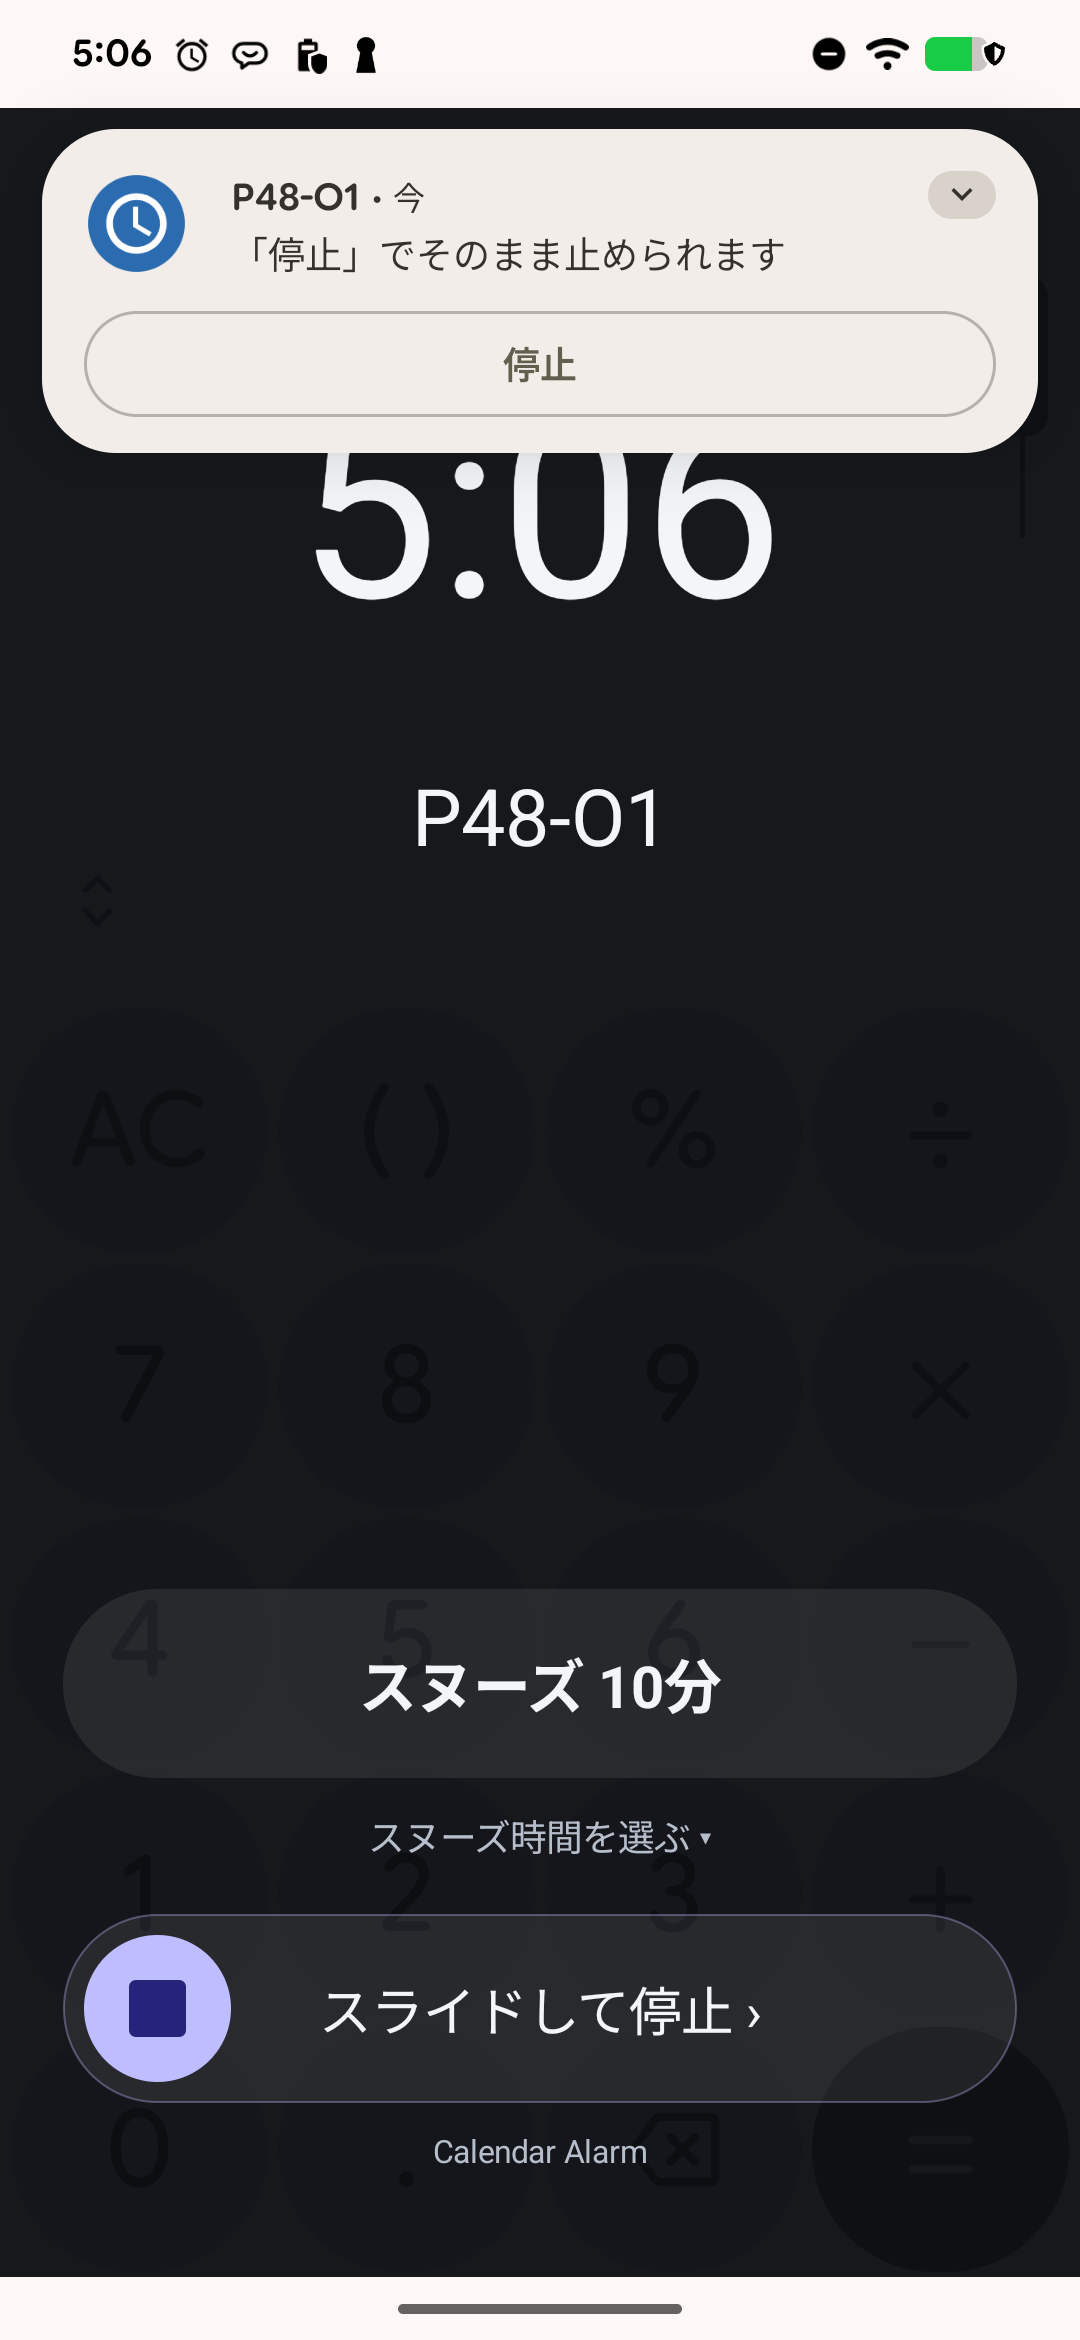
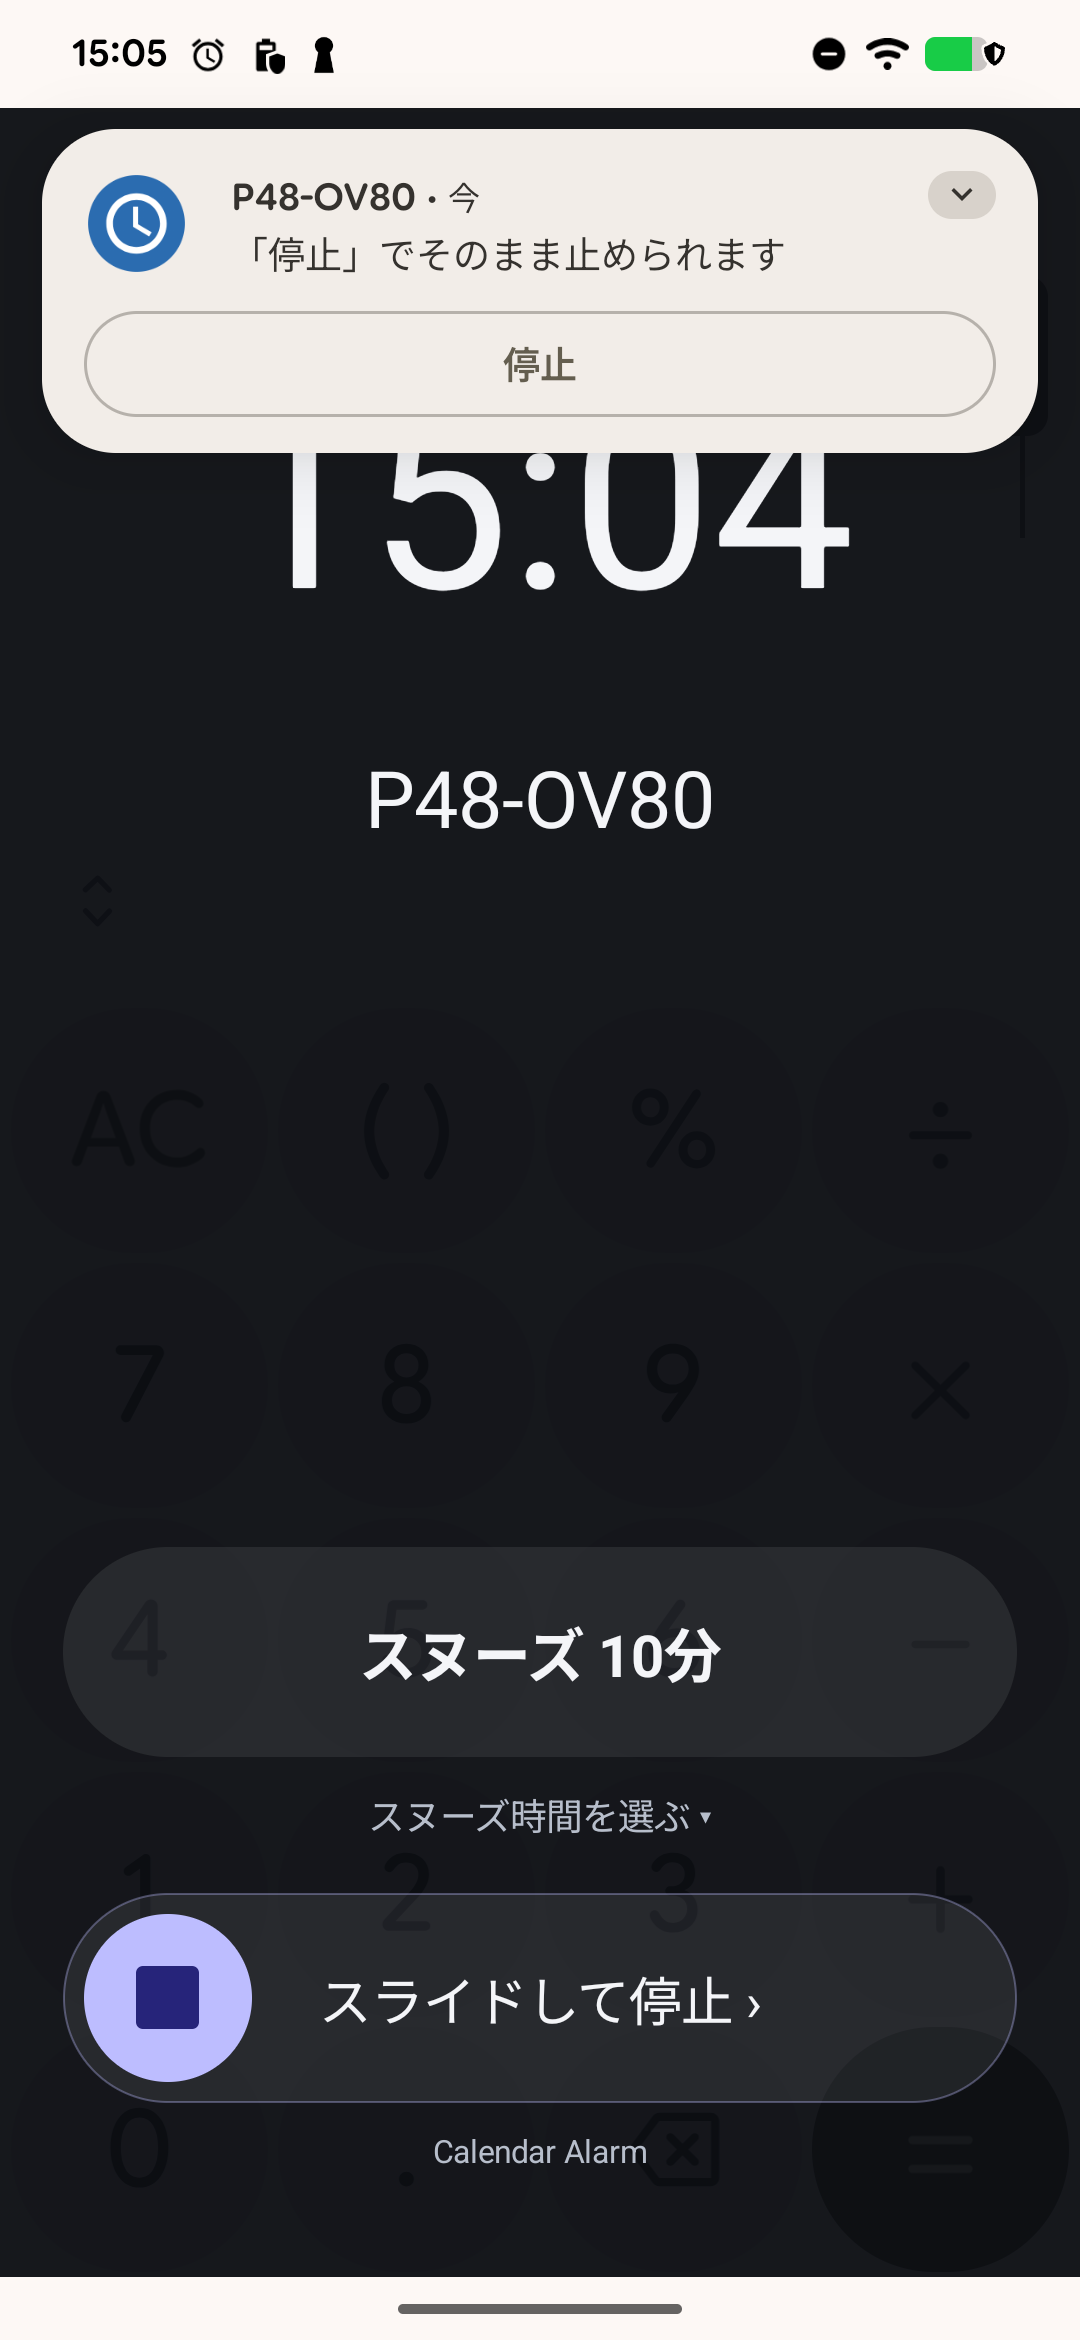
chore(evidence): PR 48 overlay geometry on Pixel 7 Pro at 535882e

diff --git a/48-pixel-r5/overlay80.py b/48-pixel-r5/overlay80.py
@@ -1,0 +1,232 @@
+"""PR #48 overlay geometry on the real Pixel, silent. Verifies the overlay (FSI denied, calculator in front)
+now has an 80dp slide track, 64dp thumb and 80dp snooze (same as RingingActivity and iOS), and that the
+slide still behaves (half = returns, off-thumb swipe = nothing, full = stops).
+Every volume 0, DND total silence, vibration 0 before anything rings; restored at the end.
+Test build applicationId com.calendaralarm.pr48 (installed app and its data untouched)."""
+import os
+import re
+import subprocess
+import sys
+import time
+import xml.etree.ElementTree as ET
+from datetime import datetime
+
+from PIL import Image
+
+SER = "2A091FDH300C0J"
+OUT, APK = sys.argv[1], sys.argv[2]
+P = "com.calendaralarm.pr48"
+HARN = f"{P}/com.calendaralarm.emu.EmuHarnessReceiver"
+CALC = "com.google.android.calculator"
+VIB_KEYS = ("alarm_vibration_intensity", "ring_vibration_intensity", "notification_vibration_intensity",
+            "media_vibration_intensity", "haptic_feedback_intensity")
+os.makedirs(OUT, exist_ok=True)
+log = open(os.path.join(OUT, "run.log"), "w")
+results = []
+
+
+def say(*a):
+    s = f"[{datetime.now().strftime('%H:%M:%S.%f')[:-3]}] " + " ".join(str(x) for x in a)
+    print(s, flush=True)
+    log.write(s + "\n")
+    log.flush()
+
+
+def adb(*a, raw=False):
+    r = subprocess.run(["adb", "-s", SER, *a], capture_output=True)
+    return r.stdout if raw else r.stdout.decode("utf-8", "replace")
+
+
+def sh(*a):
+    return adb("shell", *a)
+
+
+def vol(st):
+    m = re.search(r"volume is (\d+)", sh("cmd", "media_session", "volume", "--stream", str(st), "--get"))
+    return int(m.group(1)) if m else None
+
+
+def ringing():
+    return "engine.AlarmService" in sh("dumpsys", "activity", "services", P)
+
+
+def overlay_windows():
+    out = sh("dumpsys", "window", "windows")
+    hits = []
+    for block in re.split(r"\n  Window #\d+ ", out):
+        if P in block and re.search(r"ty=APPLICATION_OVERLAY|type=APPLICATION_OVERLAY|TYPE_APPLICATION_OVERLAY", block):
+            hits.append(block.splitlines()[0].strip())
+    return hits
+
+
+def app_activities():
+    return sorted(set(re.findall(re.escape(P) + r"/[\w.]+", sh("dumpsys", "activity", "activities"))))
+
+
+def nodes():
+    sh("uiautomator", "dump", "/sdcard/u48.xml")
+    xml = adb("exec-out", "cat", "/sdcard/u48.xml")
+    out = []
+    for n in ET.fromstring(xml).iter("node"):
+        m = re.match(r"\[(\d+),(\d+)\]\[(\d+),(\d+)\]", n.get("bounds", ""))
+        if m:
+            out.append({"text": n.get("text", ""), "desc": n.get("content-desc", ""),
+                        "bounds": tuple(int(x) for x in m.groups())})
+    return out
+
+
+def find(pred):
+    return next((n for n in nodes() if pred(n)), None)
+
+
+def shot(path):
+    open(path, "wb").write(adb("exec-out", "screencap", "-p", raw=True))
+
+
+def record(row, ok, note):
+    results.append((row, "PASS" if ok else "FAIL", note))
+    say(f"ROW {row}: {'PASS' if ok else 'FAIL'} {note}")
+
+
+def slider():
+    return find(lambda n: n["desc"] == "スライドして停止")
+
+
+def swipe(x0, y, x1, ms=900):
+    sh("input", "swipe", str(x0), str(y), str(x1), str(y), str(ms))
+    say(f"swipe {x0},{y} -> {x1},{y}")
+
+
+def wait_quiet(timeout=10):
+    t0 = time.time()
+    while time.time() - t0 < timeout:
+        if not ringing():
+            return True
+        time.sleep(1)
+    return False
+
+
+density = int(re.search(r"(\d+)", sh("wm", "density")).group(1))
+DP = density / 160.0
+saved = {st: vol(st) for st in (2, 3, 4, 5)}
+saved_zen = sh("settings", "get", "global", "zen_mode").strip()
+saved_vib = {k: sh("settings", "get", "system", k).strip() for k in VIB_KEYS}
+night = sh("cmd", "uimode", "night").strip()
+say("density", density, "dp=", DP, "| saved volumes", saved, "| zen", saved_zen, "| vib", saved_vib, "|", night)
+try:
+    for st in (2, 3, 4, 5):
+        sh("cmd", "media_session", "volume", "--stream", str(st), "--set", "0")
+    sh("cmd", "notification", "set_dnd", "none")
+    for k in VIB_KEYS:
+        sh("settings", "put", "system", k, "0")
+    now_vols = {st: vol(st) for st in (2, 3, 4, 5)}
+    zen = sh("settings", "get", "global", "zen_mode").strip()
+    vib_now = {k: sh("settings", "get", "system", k).strip() for k in VIB_KEYS}
+    say("volumes now", now_vols, "| zen_mode", zen, "| vibration now", vib_now)
+    if zen != "2" or any(v not in (0, 1) for v in now_vols.values()) or any(v != "0" for v in vib_now.values()):
+        raise SystemExit("not silent; abort before anything rings")
+    sh("input", "keyevent", "KEYCODE_WAKEUP")
+    sh("svc", "power", "stayon", "true")
+    sh("wm", "dismiss-keyguard")
+    sh("cmd", "statusbar", "collapse")
+
+    sh("pm", "uninstall", P)
+    say(adb("install", "-r", "-d", APK).strip().splitlines()[-1])
+    sh("pm", "grant", P, "android.permission.POST_NOTIFICATIONS")
+    sh("appops", "set", P, "SCHEDULE_EXACT_ALARM", "allow")
+    sh("appops", "set", P, "USE_FULL_SCREEN_INTENT", "deny")
+    sh("appops", "set", P, "SYSTEM_ALERT_WINDOW", "allow")
+    say("appops:", sh("appops", "get", P, "USE_FULL_SCREEN_INTENT").strip(), "|",
+        sh("appops", "get", P, "SYSTEM_ALERT_WINDOW").strip())
+    sh("am", "force-stop", P)
+    sh("am", "start", "-W", "-n", f"{CALC}/com.android.calculator2.Calculator")
+    time.sleep(2)
+
+    out = sh("am", "broadcast", "--include-stopped-packages", "-n", HARN, "-a", "com.calendaralarm.emu.SCHEDULE",
+             "--ei", "seconds", "8", "--es", "label", "P48-OV80")
+    say("schedule:", out.strip().splitlines()[-1] if out.strip() else out)
+    t0 = time.time()
+    while time.time() - t0 < 60 and not ringing():
+        time.sleep(1)
+    time.sleep(3)
+    wins = overlay_windows()
+    acts = app_activities()
+    shot(f"{OUT}/o1-overlay.png")
+    record("overlay-path", ringing() and bool(wins) and not any("RingingActivity" in a for a in acts),
+           f"ringing={ringing()}, APPLICATION_OVERLAY windows={len(wins)}, app activities={acts}")
+
+    s = slider()
+    snz = find(lambda n: n["text"].startswith("スヌーズ ") and n["text"].endswith("分") and "選ぶ" not in n["text"])
+    say("slider", s, "| snooze", snz)
+    if not s or not snz:
+        record("geometry", False, "slider or snooze node not found")
+    else:
+        l, t, r, b = s["bounds"]
+        h_dp = (b - t) / DP
+        sh_dp = (snz["bounds"][3] - snz["bounds"][1]) / DP
+        record("track-80dp", abs(h_dp - 80) <= 1.0, f"slider height = {b - t}px = {h_dp:.1f}dp (want 80)")
+        record("snooze-80dp", abs(sh_dp - 80) <= 1.0, f"snooze height = {snz['bounds'][3] - snz['bounds'][1]}px = {sh_dp:.1f}dp (want 80)")
+        img = Image.open(f"{OUT}/o1-overlay.png").convert("RGB")
+        yc = (t + b) // 2
+        acc = [x for x in range(l, r) if all(abs(c - d) < 12 for c, d in zip(img.getpixel((x, yc - int((b - t) * 0.3))), (0xBD, 0xBD, 0xFF)))
+               or all(abs(c - d) < 12 for c, d in zip(img.getpixel((x, yc)), (0xBD, 0xBD, 0xFF)))]
+        if acc:
+            # 丸の左端〜右端 (■ の部分は地の色になるが、最左と最右の画素で直径を測る)
+            w_px = acc[-1] - acc[0] + 1
+            pad_px = acc[0] - l
+            record("thumb-64dp", abs(w_px / DP - 64) <= 2.0 and abs(pad_px / DP - 8) <= 2.0,
+                   f"thumb width = {w_px}px = {w_px / DP:.1f}dp (want 64), left pad = {pad_px}px = {pad_px / DP:.1f}dp (want 8), grab limit=(64+8*3)dp={88 * DP:.0f}px")
+        else:
+            record("thumb-64dp", False, "no accent pixels found in the track")
+
+        # 掴める幅: 88dp の内側ぎりぎり (84dp) から引き始めても止まる / 外側 (96dp) からは止まらない
+        # 先に外側から払う (止まったら以降が続かないため)
+        y = (t + b) // 2
+        x_out = l + int(96 * DP)
+        swipe(x_out, y, r - int(8 * DP))
+        time.sleep(3)
+        record("outside-grab-96dp", ringing() and bool(overlay_windows()),
+               f"swipe from {96}dp (outside 88dp) to the right end: still ringing={ringing()}")
+        # 丸の中央から半分
+        x_c = l + int((8 + 32) * DP)
+        travel = (r - l) - int((64 + 16) * DP)
+        swipe(x_c, y, x_c + int(travel * 0.5))
+        time.sleep(3)
+        shot(f"{OUT}/o2-after-half.png")
+        img2 = Image.open(f"{OUT}/o2-after-half.png").convert("RGB")
+        px = img2.getpixel((l + int(14 * DP), y))
+        record("half-returns", ringing() and bool(overlay_windows()) and all(abs(c - d) < 12 for c, d in zip(px, (0xBD, 0xBD, 0xFF))),
+               f"still ringing={ringing()}, thumb back at left pixel={px}")
+        # 掴める幅の内側 84dp から全引き → 止まる
+        s2 = slider()
+        l, t, r, b = s2["bounds"]
+        swipe(l + int(84 * DP), (t + b) // 2, r - int(4 * DP))
+        stopped = wait_quiet(10)
+        time.sleep(2)
+        shot(f"{OUT}/o3-after-full.png")
+        record("inside-grab-84dp-full-stops", stopped and not overlay_windows(),
+               f"swipe from 84dp (inside 88dp) to the right end: stopped={stopped}, overlay windows={len(overlay_windows())}")
+finally:
+    if ringing():
+        sh("am", "broadcast", "-n", HARN, "-a", "com.calendaralarm.emu.DISMISS")
+    sh("am", "force-stop", P)
+    sh("pm", "uninstall", P)
+    for st, v in saved.items():
+        if v is not None:
+            sh("cmd", "media_session", "volume", "--stream", str(st), "--set", str(v))
+    sh("cmd", "notification", "set_dnd", {"0": "off", "1": "priority", "2": "none", "3": "alarms"}.get(saved_zen, "off"))
+    for k, v in saved_vib.items():
+        if v == "null":
+            sh("settings", "delete", "system", k)
+        else:
+            sh("settings", "put", "system", k, v)
+    if night.endswith("yes"):
+        sh("cmd", "uimode", "night", "yes")
+    sh("svc", "power", "stayon", "false")
+    sh("input", "keyevent", "KEYCODE_HOME")
+    sh("rm", "/sdcard/u48.xml")
+    say("restored volumes", {st: vol(st) for st in (2, 3, 4, 5)}, "| zen:", sh("settings", "get", "global", "zen_mode").strip(),
+        "| vibration:", {k: sh("settings", "get", "system", k).strip() for k in VIB_KEYS})
+    say("RESULTS")
+    for row in results:
+        say("  ", *row)
